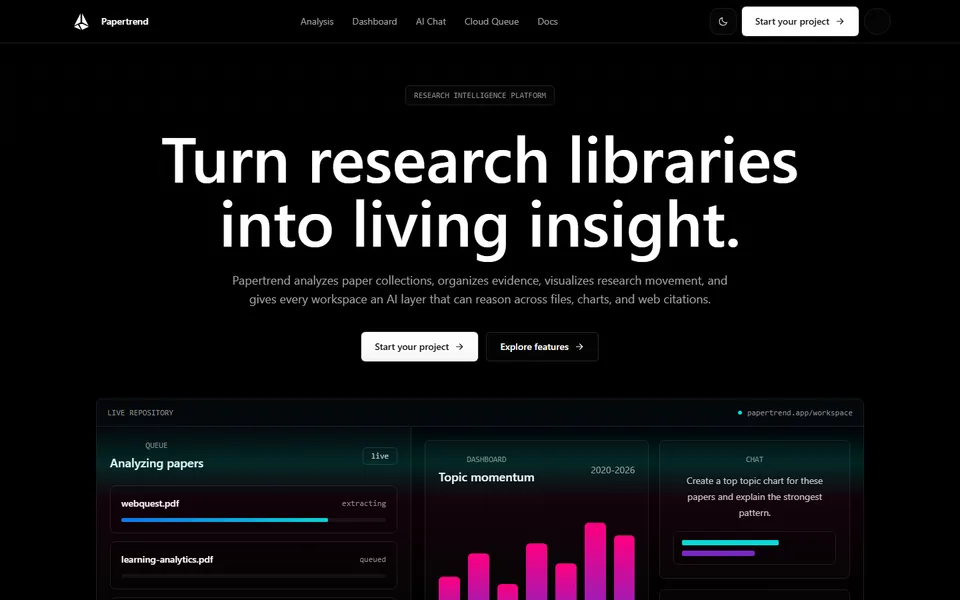
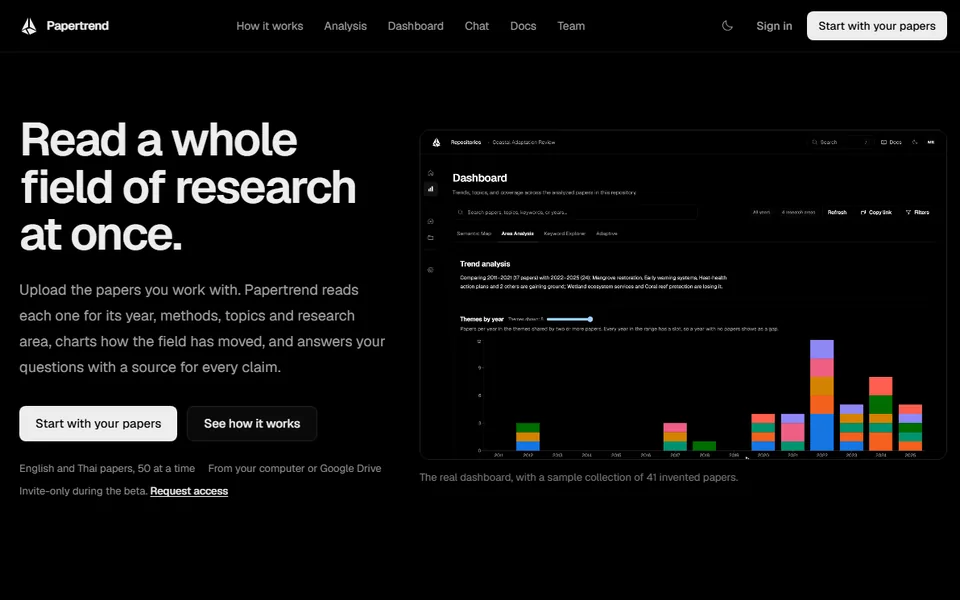
Point Papertrend to papertrend.web.app with a new thumbnail

diff --git a/index.html b/index.html
@@ -108,7 +108,7 @@
               <button class="btn-line" type="button" aria-expanded="false" aria-controls="abs-papertrend">Show abstract</button>
               <button class="btn-line copy" type="button" data-bib="bib-papertrend">Copy BibTeX</button>
               <a class="btn-line" href="files/Chantarusorn_2026_Papertrend.pdf" download>Download PDF</a>
-              <a class="text-link" href="https://papertrend-extractor-llm.vercel.app">Open the platform</a>
+              <a class="text-link" href="https://papertrend.web.app/">Open the platform</a>
             </div>
             <div class="abstract" id="abs-papertrend" hidden>
               <p>Graduate programs accumulate research faster than anyone can read it as a body. The English as an International Language (EIL) program at Chulalongkorn University records 182 master's theses and doctoral dissertations from 2006 to 2025, of which 101 survive as retrievable PDF files. An earlier study of that record ran a one-off chain of language-model agents in a notebook. This paper presents Papertrend, the web platform that grew out of it.</p>
@@ -245,12 +245,12 @@
       <div class="block-body">
 
         <article class="project">
-          <a class="thumb" href="https://papertrend-extractor-llm.vercel.app" tabindex="-1" aria-hidden="true">
+          <a class="thumb" href="https://papertrend.web.app/" tabindex="-1" aria-hidden="true">
             <img src="assets/thumbs/papertrend.webp" alt="" width="960" height="600" loading="lazy">
           </a>
           <div class="project-text">
             <p class="meta">2026, research platform</p>
-            <h3><a href="https://papertrend-extractor-llm.vercel.app">Papertrend</a></h3>
+            <h3><a href="https://papertrend.web.app/">Papertrend</a></h3>
             <p>The platform behind the first paper above. Upload a collection of theses and it extracts grounded metadata, charts how topics move over time, and answers questions with passage-level citations.</p>
             <p class="stack">LangGraph, Next.js, PostgreSQL with pgvector, Google Cloud Run</p>
           </div>
